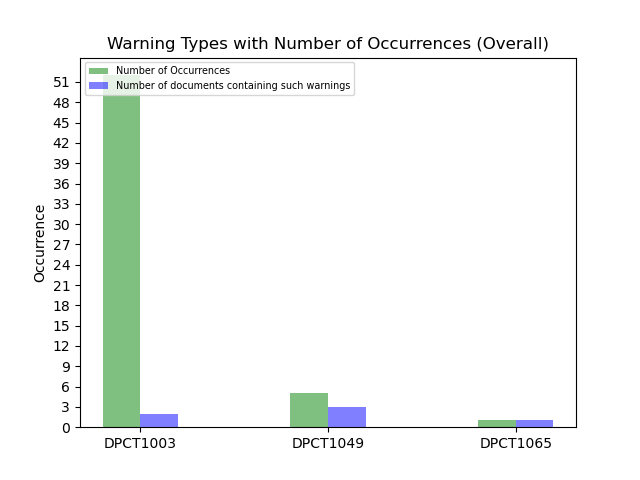
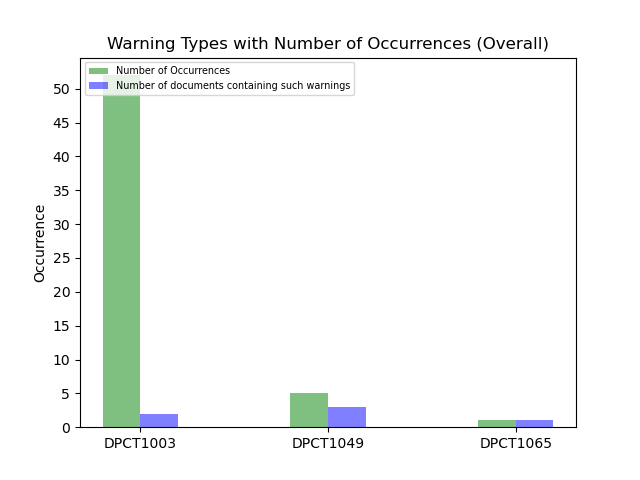
update analysers

diff --git a/report_presentation/report.html b/report_presentation/report.html
@@ -9,15 +9,17 @@
                         p.serif{font-family:"Times New Roman",Times,serif;}
                         p.sansserif{font-family:Arial,Helvetica,sans-serif;}
                         body {margin: 50px;}
-                        .before-warning-table table,th, td
+                        .before-warning-table table, .after-warning-table table, .recommendation-table table, th, td
                           {
                           font-size:0.8em;
                           border:1px solid 	#FFFFFF;
                           padding:10px;
                           }
-                          table
+                         .before-warning-table, .after-warning-table, .recommendation-table
                           {
                           border-collapse:collapse;
+                          max-height: 100%;
+                          overflow-y: auto;
                           }
                         th
                           {
@@ -32,7 +34,7 @@
                           {background-color: #F2F2F2;}
 
                         </style>
-                        <body> 
+                        <body style="height:100%;"> 
                         <p class="serif" ><b>     1.  Number of Analysis Files:  3</b></p>
 
                         <p class="serif" ><b>     2.  Analysis Files:    </b></p>
@@ -646,8 +648,10 @@ performance, if there is no access to global memory.</td>
                         </tr>
                         
                         </table>
+                        </div>
                         
                         <p class="serif" ><b>     9.  Detailed Warning Information (After CTA)</b></p>
+                        <div class = "after-warning-table">
                         <table border = "0">
                                 <tr>
                                         <th>No.</th>
@@ -1233,8 +1237,10 @@ workgroup size if needed.</td>
                         </tr>
                         
                         </table>
+                        </div>
                         
                         <p class="serif" ><b>     10.  Detailed Recommendation Information (After CTA)</b></p>
+                        <div class = "recommendation-table", >
                         <table border = "0">
                                 <tr>
                                         <th>No.</th>
@@ -1258,6 +1264,7 @@ has no memory accesses in the global memory.</td>
                                 </tr>
                                 
                         </table>
+                        </div>
                         
                         <p class="serif" ><b>     11. Number of warnings have been fixed: 0</b></p>
                                 

diff --git a/report_presentation/Presenter.py b/report_presentation/Presenter.py
@@ -72,15 +72,17 @@ class Presenter:
                         p.serif{font-family:"Times New Roman",Times,serif;}
                         p.sansserif{font-family:Arial,Helvetica,sans-serif;}
                         body {margin: 50px;}
-                        .before-warning-table table,th, td
+                        .before-warning-table table, .after-warning-table table, .recommendation-table table, th, td
                           {
                           font-size:0.8em;
                           border:1px solid 	#FFFFFF;
                           padding:10px;
                           }
-                          table
+                         .before-warning-table, .after-warning-table, .recommendation-table
                           {
                           border-collapse:collapse;
+                          max-height: 100%;
+                          overflow-y: auto;
                           }
                         th
                           {
@@ -95,7 +97,7 @@ class Presenter:
                           {background-color: #F2F2F2;}
 
                         </style>
-                        <body> '''
+                        <body style="height:100%;"> '''
         return html
 
     def get_html1_7(self, all_warnings,unique_warning_code, unique_file_path,file_path_string,warning_code_string):
@@ -133,12 +135,14 @@ class Presenter:
         html += self.get_warning_info(all_warnings)
         html += '''
                         </table>
+                        </div>
                         '''
         return html
 
     def get_html9(self, final_warnings):
         html = '''
                         <p class="serif" ><b>     9.  Detailed Warning Information (After CTA)</b></p>
+                        <div class = "after-warning-table">
                         <table border = "0">
                                 <tr>
                                         <th>No.</th>
@@ -151,12 +155,14 @@ class Presenter:
         html += self.get_warning_info(final_warnings)
         html += '''
                         </table>
+                        </div>
                         '''
         return html
 
     def get_html10(self, changes):
         html = '''
                         <p class="serif" ><b>     10.  Detailed Recommendation Information (After CTA)</b></p>
+                        <div class = "recommendation-table", >
                         <table border = "0">
                                 <tr>
                                         <th>No.</th>
@@ -169,9 +175,9 @@ class Presenter:
         html += self.get_recommendation_info(changes)
         html += '''
                         </table>
+                        </div>
                         '''
         return html
-
 
     def get_html11_13(self,warning_fixed,changes,diff_path):
         html =''
@@ -259,7 +265,7 @@ class Presenter:
         plt.bar(x + bar_width, files_contain_warnings.values(), bar_width, align="center", color="blue", label="Number of documents containing such warnings",
                 alpha=0.5)
         plt.xticks(x + bar_width / 2, occurrence.keys())
-        plt.yticks(np.arange(0, max(occurrence.values())+1, step=3))
+        plt.yticks(np.arange(0, max(occurrence.values())+1, step=5))
         plt.ylabel("Occurrence")
         plt.title("Warning Types with Number of Occurrences (Overall)")
         plt.legend(loc="upper left", fontsize="x-small")
